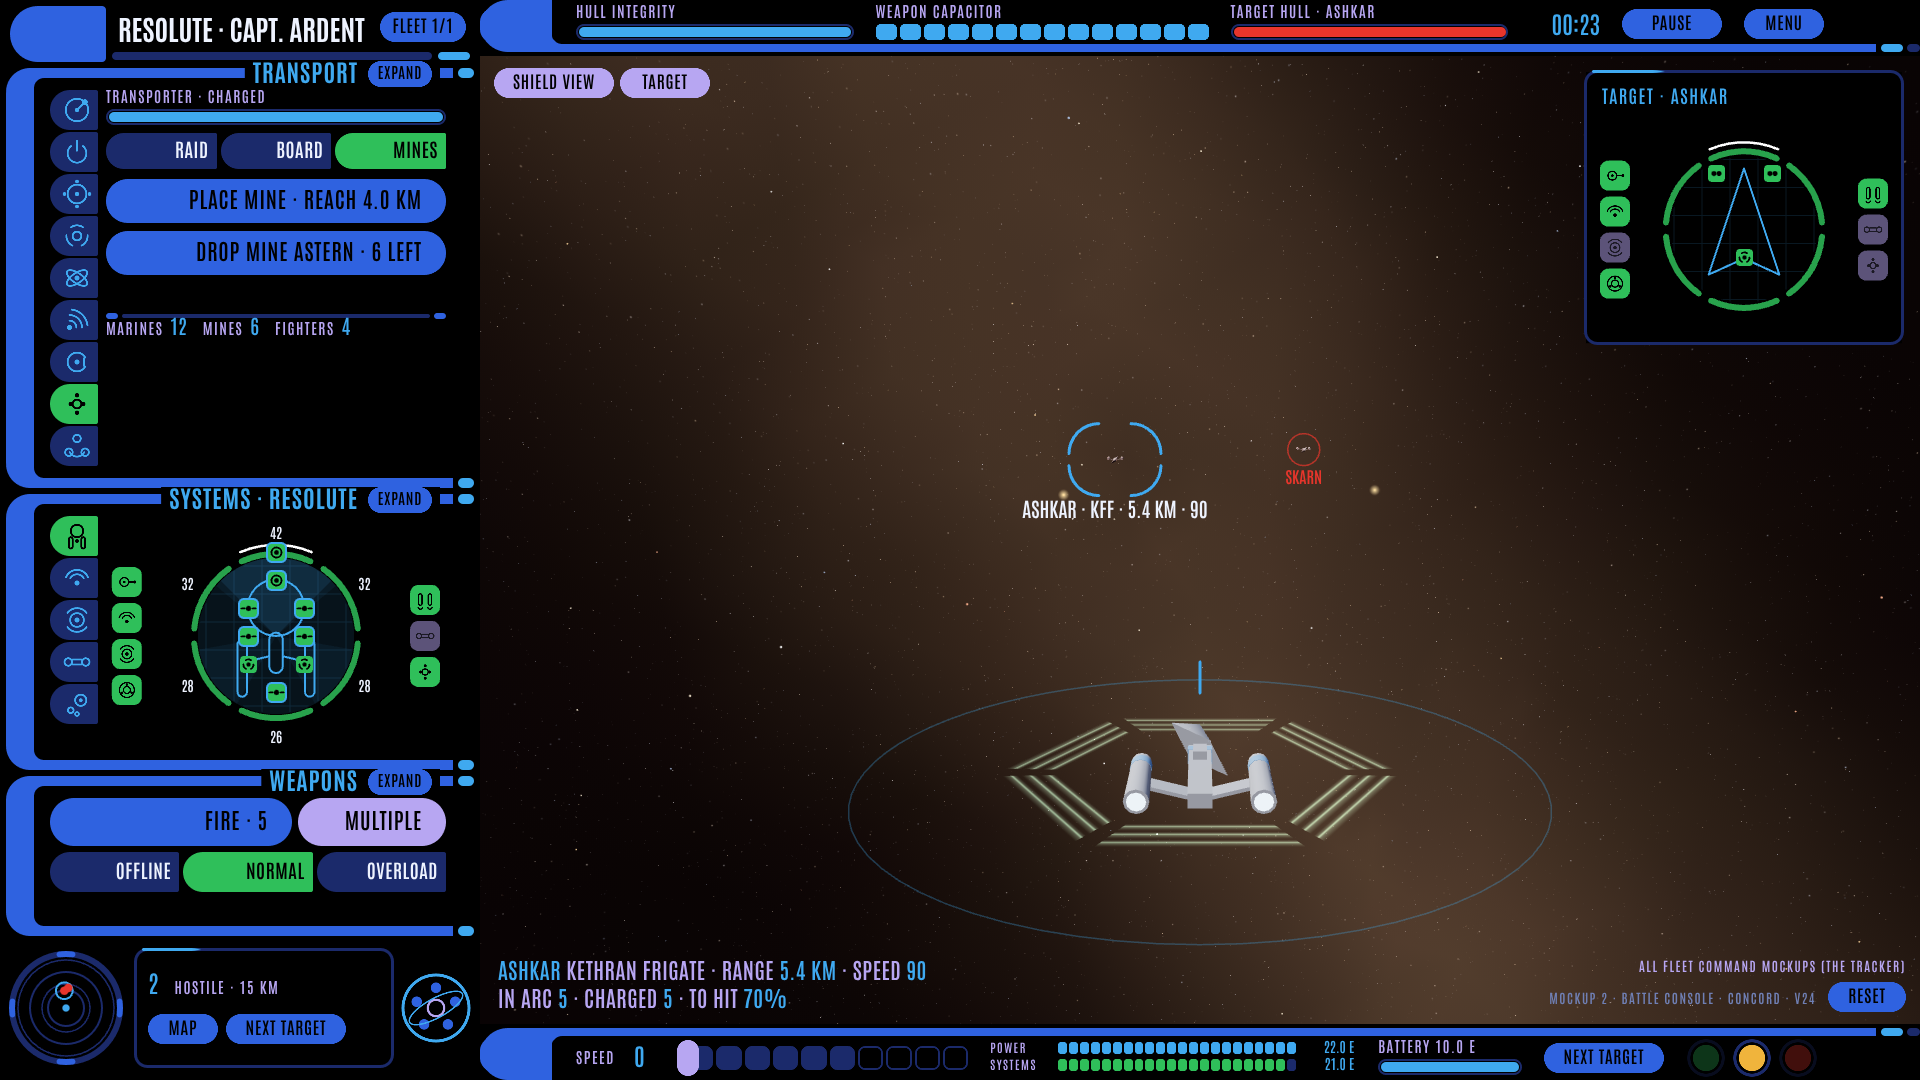
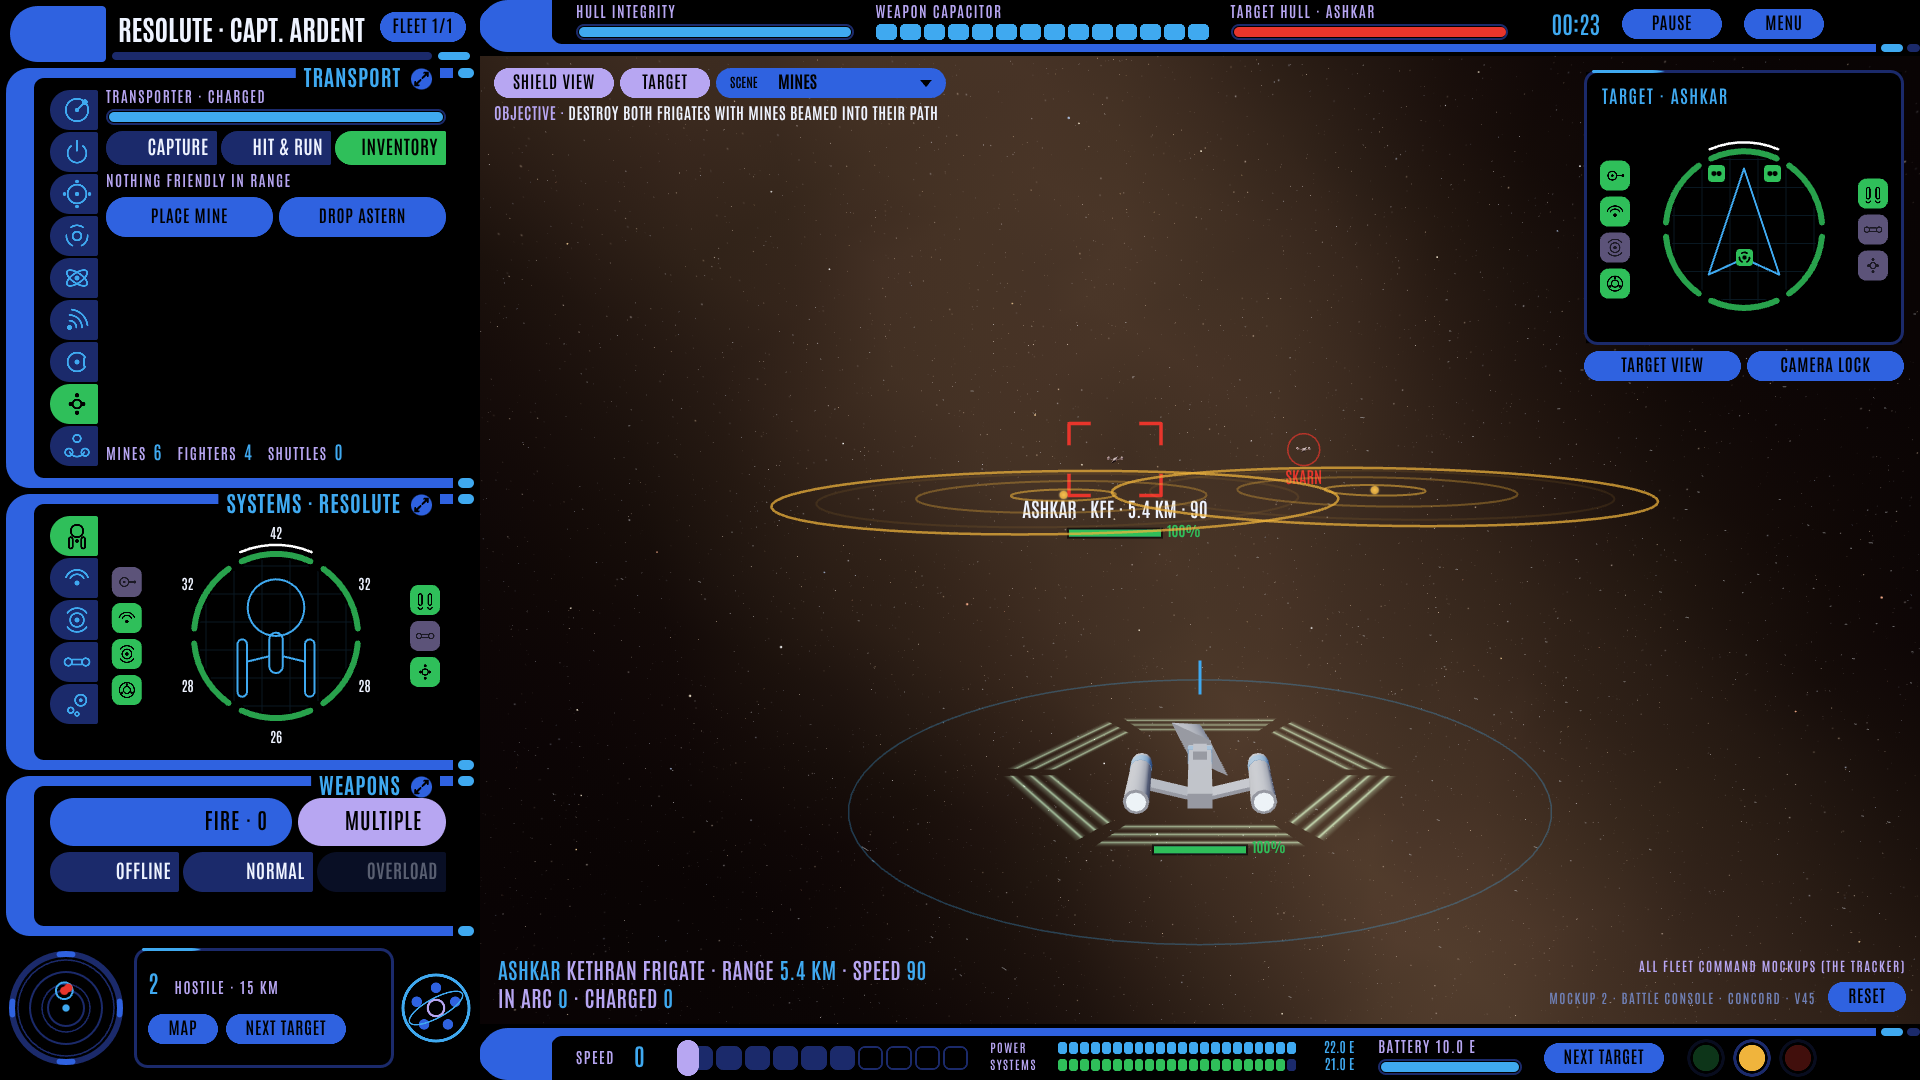
Battle console v45: laid mines show their range; a 3D object pool per kind
Claude-Session: https://claude.ai/code/session_01RGPQuqAYNNJKpzbbbZ3BfB

diff --git a/docs/mockups/battle-console.html b/docs/mockups/battle-console.html
@@ -2703,7 +2703,7 @@ function explosionsStep(dt) {
   for (let i = EXPLOSIONS.length - 1; i >= 0; i--) if (EXPLOSIONS[i].done) EXPLOSIONS.splice(i, 1);
 }
 function boomAt(x, z, size) { const sp = new THREE.Sprite(new THREE.SpriteMaterial({ map: glowTex, color: 0xffb070, blending: THREE.AdditiveBlending, depthWrite: false, transparent: true })); sp.position.set(x, 0, z); scene.add(sp); booms.push({ sp, t: 0, size }); }
-const SHOT_POOL = [];
+const SHOT_POOL = {};
 // Asteroids in the 3D view: a lumpy grey rock per W.rocks entry, rebuilt when the world changes.
 let ROCKS3D = null, rocksFor = null;
 function syncRocks() {
@@ -2727,9 +2727,13 @@ function syncScene(dt) {
     const show = s === W.player ? showShields : false;
     o.sh.children.forEach((face, i) => { const nl = shieldLayers(s, i), col = shieldCol(s, i); face.children.forEach((m, l) => { m.material.opacity = Math.min(1, (show && l < nl ? 0.8 : 0) + (l === 0 ? s.flash[i] * 0.9 : 0)); m.material.color.set(col); }); });
   }
-  // Shots: beams as glowing cylinders, projectiles as glow sprites, from one pool.
-  let n = 0;
-  const take = (kind) => { let o = SHOT_POOL[n]; if (!o || o.kind !== kind) { if (o) fx.remove(o.obj); const obj = kind === 'beam' ? new THREE.Mesh(beamGeo, new THREE.MeshBasicMaterial({ transparent: true, blending: THREE.AdditiveBlending, depthWrite: false })) : new THREE.Sprite(new THREE.SpriteMaterial({ map: glowTex, blending: THREE.AdditiveBlending, depthWrite: false, transparent: true })); o = SHOT_POOL[n] = { kind, obj }; fx.add(obj); } o.obj.visible = true; n++; return o.obj; };
+  // Shots: beams as glowing cylinders, projectiles as glow sprites, each kind from its own pool, so an object is never
+  // thrown away and rebuilt because the slot it sat in changed kind (that churn made the view stutter with mines out).
+  const used = { beam: 0, glow: 0 };
+  const take = (kind) => { const pool = SHOT_POOL[kind] || (SHOT_POOL[kind] = []); let o = pool[used[kind]];
+    if (!o) { const obj = kind === 'beam' ? new THREE.Mesh(beamGeo, new THREE.MeshBasicMaterial({ transparent: true, blending: THREE.AdditiveBlending, depthWrite: false })) : new THREE.Sprite(new THREE.SpriteMaterial({ map: glowTex, blending: THREE.AdditiveBlending, depthWrite: false, transparent: true }));
+      o = { kind, obj }; fx.add(obj); pool.push(o); }
+    used[kind]++; o.obj.visible = true; return o.obj; };
   for (const sh of W.shots) {
     if (sh.kind === 'beam') {
       const t = sh.to ? ship(sh.to) : null, tx = t && !sh.miss ? t.x : sh.tx + (sh.miss ? 1.5 : 0), tz = t && !sh.miss ? t.z : sh.tz + (sh.miss ? 1.2 : 0);
@@ -2741,7 +2745,7 @@ function syncScene(dt) {
     const b = take('beam'), len = Math.hypot(h.x - s.x, h.z - s.z); b.position.set(s.x, 0.05, s.z); b.lookAt(h.x, 0.05, h.z); b.scale.set(2.5, 2.5, len); b.material.color.setHex(0x9fe8ff); b.material.opacity = 0.2 + s.beam.grip * 0.5; }
   for (const c of W.craft) { const sp = take('glow'); sp.position.set(c.x, 0.1, c.z); sp.scale.setScalar(0.35); sp.material.color.setHex(0x9fd0ff); }
   for (const mn of W.mines) { const sp = take('glow'); sp.position.set(mn.x, 0, mn.z); sp.scale.setScalar(0.5); sp.material.color.setHex(mn.arm > 0 ? 0x806020 : 0xffb030); }
-  for (let i = n; i < SHOT_POOL.length; i++) SHOT_POOL[i].obj.visible = false;
+  for (const kind of Object.keys(SHOT_POOL)) for (let i = used[kind] || 0; i < SHOT_POOL[kind].length; i++) SHOT_POOL[kind][i].obj.visible = false;
   explosionsStep(dt);
   for (const b of booms) { b.t += dt; const k = b.t / 1.4; b.sp.scale.setScalar(b.size * (1 + k * 4)); b.sp.material.opacity = Math.max(0, 1 - k); if (k >= 1) { scene.remove(b.sp); b.done = true; } }
   for (let i = booms.length - 1; i >= 0; i--) if (booms[i].done) booms.splice(i, 1);
@@ -2828,6 +2832,15 @@ function wireView() {
   };
   renderer.domElement.oncontextmenu = (e) => e.preventDefault();
 }
+// A mine's range on the battle plane, as a bullseye: its edge, and rings radiating out from the centre to it. One drawing
+// for the placement preview and the mines already laid (6.1). scr maps a plane point to the view.
+function bullseye(scr, mx, mz, col, alpha) {
+  const R0 = MINE.trigger_u, ph = (performance.now() / 1400) % 1;
+  const ring = (rad, a2, width) => { g.strokeStyle = col; g.globalAlpha = a2 * alpha; g.lineWidth = width; g.beginPath(); for (let i = 0; i <= 64; i++) { const a = i / 64 * 2 * P, q = scr(mx + Math.sin(a) * rad, mz - Math.cos(a) * rad); if (q) (i ? g.lineTo(q[0], q[1]) : g.moveTo(q[0], q[1])); } g.stroke(); g.globalAlpha = 1; };
+  ring(R0, 0.9, 2.5);
+  for (let k2 = 0; k2 < 3; k2++) { const f = (ph + k2 / 3) % 1; ring(R0 * f, 0.85 * (1 - f), 2); }
+  const c0 = scr(mx, mz); if (c0) { g.fillStyle = col; g.globalAlpha = alpha; g.beginPath(); g.arc(c0[0], c0[1], 4, 0, 2 * P); g.fill(); g.globalAlpha = 1; }
+}
 // The turn still to make (after the-federation's TurnArc): an arc on the plane round your ship from its heading to the
 // ordered heading, with a tick at the order. (The mark where the helm was clicked is gone: owner, 2026-11-02, "should
 // get rid of plus sign".) The ring brightens under the pointer and while it is dragged to steer.
@@ -2846,6 +2859,10 @@ function helmArc(vw, vh, s) {
   }
   const a = at(s.hOrder, R - 0.8), b = at(s.hOrder, R + 1.2);
   if (a && b) { g.strokeStyle = CC.sky; g.lineWidth = 3; g.beginPath(); g.moveTo(a[0], a[1]); g.lineTo(b[0], b[1]); g.stroke(); }
+  // the mines already laid keep their range showing (owner, 2026-11-02: "mine needs range animation still here"): grey
+  // while arming, yellow once armed, red with a ship inside it
+  for (const mn of W.mines) { if (mn.side !== s.side) continue; const hot = W.ships.some((o) => o.alive && Math.hypot(o.x - mn.x, o.z - mn.z) <= MINE.trigger_u);
+    bullseye(scr, mn.x, mn.z, mn.arm > 0 ? '#8a8f9c' : hot ? CC.alert : CC.caution, 0.8); }
   if (placingHet) LBL('Click where the high energy turn should point', vw / 2, 92, 0, CC.caution, 'center', 18);
   if (placingMine) {
     // the transporter's reach
@@ -2861,11 +2878,9 @@ function helmArc(vw, vh, s) {
     // outwards"): its trigger radius on the battle plane, rings radiating out from the centre to it.
     if (mineCursor) {
       const mx = mineCursor.x, mz = mineCursor.z, valid = Math.hypot(mx - s.x, mz - s.z) <= Rm, hot = W.ships.some((o) => o.alive && Math.hypot(o.x - mx, o.z - mz) <= MINE.trigger_u);
-      const col = !valid ? '#8a8f9c' : hot ? CC.alert : CC.caution, R0 = MINE.trigger_u, ph = (performance.now() / 1400) % 1;
-      const ring = (rad, alpha, width) => { g.strokeStyle = col; g.globalAlpha = alpha; g.lineWidth = width; g.beginPath(); for (let i = 0; i <= 64; i++) { const a = i / 64 * 2 * P, q = scr(mx + Math.sin(a) * rad, mz - Math.cos(a) * rad); if (q) (i ? g.lineTo(q[0], q[1]) : g.moveTo(q[0], q[1])); } g.stroke(); g.globalAlpha = 1; };
-      ring(R0, 0.9, 2.5);
-      for (let k2 = 0; k2 < 3; k2++) { const f = (ph + k2 / 3) % 1; ring(R0 * f, 0.85 * (1 - f), 2); }
-      const c0 = scr(mx, mz); if (c0) { g.fillStyle = col; g.beginPath(); g.arc(c0[0], c0[1], 4, 0, 2 * P); g.fill();
+      const col = !valid ? '#8a8f9c' : hot ? CC.alert : CC.caution;
+      bullseye(scr, mx, mz, col, 1);
+      const c0 = scr(mx, mz); if (c0) {
         if (!valid) LBL('Invalid position', c0[0], c0[1] - 16, 0, col, 'center', 16); else if (hot) LBL('Ship in mine range', c0[0], c0[1] - 16, 0, col, 'center', 14);
         else LBL(`Mine range ${km(MINE.trigger_u / 10)}`, c0[0], c0[1] - 16, 0, col, 'center', 14); }
     }
@@ -2963,7 +2978,7 @@ function uiView() {
     button('v.camlock', bx + hw5 + 6, by + ir[3] + 6, hw5, 30, camLock && !camTargetView ? 'Camera locked' : 'Camera lock', A.camLock, { sel: () => camLock && !camTargetView, center: true });
   }
   if (lock) button('v.lock', lock[0], lock[1], 140, 30, 'Lock target', () => A.lock(lock[2]), { center: true });
-  LBL('Mockup 2 · Battle console · Concord · v44', vx + vw - 104, vy + vh - 20, 0, '#6f7fb4', 'right', 13);
+  LBL('Mockup 2 · Battle console · Concord · v45', vx + vw - 104, vy + vh - 20, 0, '#6f7fb4', 'right', 13);
   button('v.reset', vx + vw - 92, vy + vh - 42, 78, 30, 'Reset', A.reset, { center: true });
   if (sceneOpen) {
     // a click anywhere else closes the list

diff --git a/docs/mockups/tracker.html b/docs/mockups/tracker.html
@@ -111,7 +111,7 @@ const MOCKUPS = [
     url: 'https://claude.ai/artifact/UBbAouwAU3JvcbGf6MhzLt', published: '2026-10-30', version: 5,
     summary: 'Main menu, skirmish (scenario, point budget, fleet and loadout), the campaign hex map with standees, port panels and missions, deploy, a stand-in battle, results, and back to the map.' },
   { id: 'M2', title: 'In-game UI', change: 'battle-console', page: 'docs/mockups/battle-console.html',
-    url: 'https://claude.ai/artifact/9yertq3bYQRmFiDE7N9eBs', published: '2026-11-02', version: 44,
+    url: 'https://claude.ai/artifact/9yertq3bYQRmFiDE7N9eBs', published: '2026-11-02', version: 45,
     summary: 'The battle console in the Concord skin around a live stand-in battle, desktop first: nine stations and five ship pages on narrow columns of icon tabs named on hover, the ship systems display, weapons, radar and tactical map, a speed handle, Power over Systems with the battery, and the power station\'s Reactor mode: a diagram of the core, coils and coolant loops worked by hand, with a meltdown to avoid. Every panel works and expands.' },
   { id: 'M3', title: 'Look dev', change: 'look-dev', page: 'docs/mockups/look-dev.html',
     url: '', published: '', version: 0,

diff --git a/openspec/changes/battle-console/design.md b/openspec/changes/battle-console/design.md
@@ -288,6 +288,15 @@ The energy in the tractor is drawn every second like any other system, so holdin
 shields. In the 3D view the beam is a pale line from holder to held, brighter as the grip tightens. An enemy holds you
 only by turning your beam; whether enemies should start a hold on their own is B11.
 
+## 4o. Mine ranges, and the view's object pools (version 45)
+
+Owner, 2026-11-02: "mine needs range animation still here, also why does it lag when i have mine and rotate the cam with
+right click?". Every mine of yours keeps its range on the battle plane as the same animated bullseye as the placement
+preview (one drawing): grey while arming, yellow once armed, red with a ship inside it. The lag: shots, mines and craft
+shared one pool of 3D objects, and a slot that changed kind (a beam where a glow had been) threw its object away and
+built a new one, every frame with mines out; each kind now has its own pool. Measured over 6 s of battle with four
+mines: 27 objects built before, 6 after (the first allocation only).
+
 ## 4n. Target view and camera lock (version 42)
 
 Owner, 2026-11-02: "break camera lock into two buttons, target view - this allows you to move camera to target view, the

diff --git a/mockup-work.md b/mockup-work.md
@@ -22,7 +22,7 @@ account and every link here is updated.
 | # | Mockup | Stage | OpenSpec change | Page | Link |
 |---|---|---|---|---|---|
 | 1 | Primary game flow | Drafted (2026-10-30, v5) | `game-flow` | `docs/mockups/game-flow.html` | https://claude.ai/artifact/UBbAouwAU3JvcbGf6MhzLt |
-| 2 | In-game UI | Drafted (2026-11-02, v44) | `battle-console` | `docs/mockups/battle-console.html` | https://claude.ai/artifact/9yertq3bYQRmFiDE7N9eBs |
+| 2 | In-game UI | Drafted (2026-11-02, v45) | `battle-console` | `docs/mockups/battle-console.html` | https://claude.ai/artifact/9yertq3bYQRmFiDE7N9eBs |
 | 3 | Look dev | Listed | `look-dev` (to write) | `docs/mockups/look-dev.html` | |
 | 4 | Console skins | Drafted (2026-10-31, v25) | `console-skins` | `docs/mockups/console-skins.html` | https://claude.ai/artifact/UTpgsPvZJrLfkEUmJN7CVb |
 

diff --git a/docs/artifacts/battle-console/README.md b/docs/artifacts/battle-console/README.md
@@ -62,3 +62,4 @@
 - Version 42 published 2026-11-02, version id `1793602709-c84d`: Target view and Camera lock as two keys under the Target box (the camera glides to the target and from ship to ship; camera lock brings it back to your ship, facing the target).
 - Version 43 published 2026-11-02, version id `1793604386-ad3e`: a blank grey key fills the HET pad's empty corner.
 - Version 44 published 2026-11-02, version id `1793604519-3064`: the chance to hit is per weapon, on each weapon's hover card and its details; removed from the helm and the view's readout line.
+- Version 45 (2026-11-02, built; published with version 46): placed mines keep their range bullseye; shots, mines and craft drawn from a pool per kind (no per-frame rebuilds).
